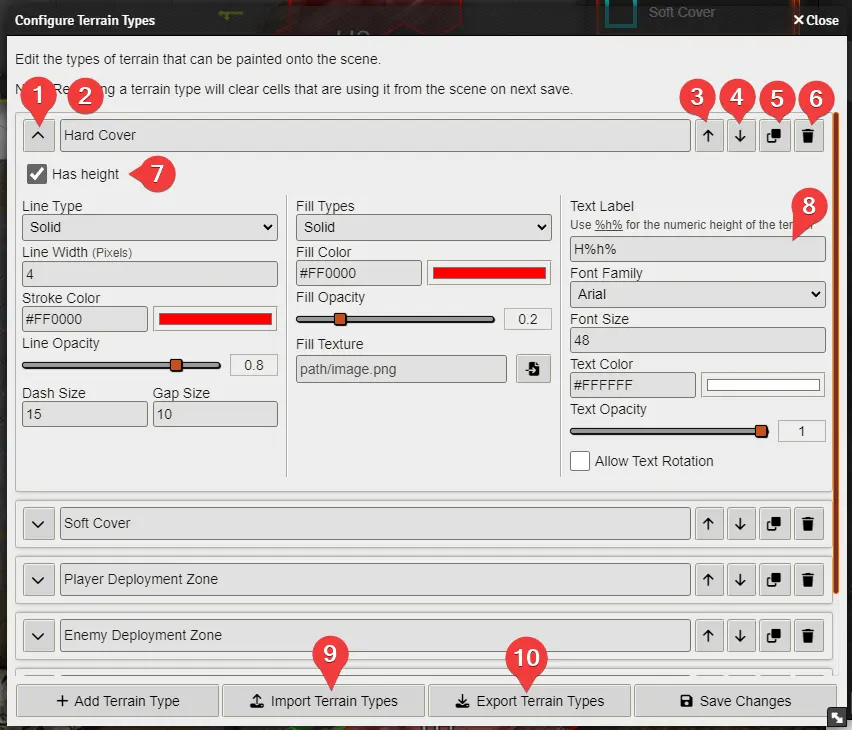
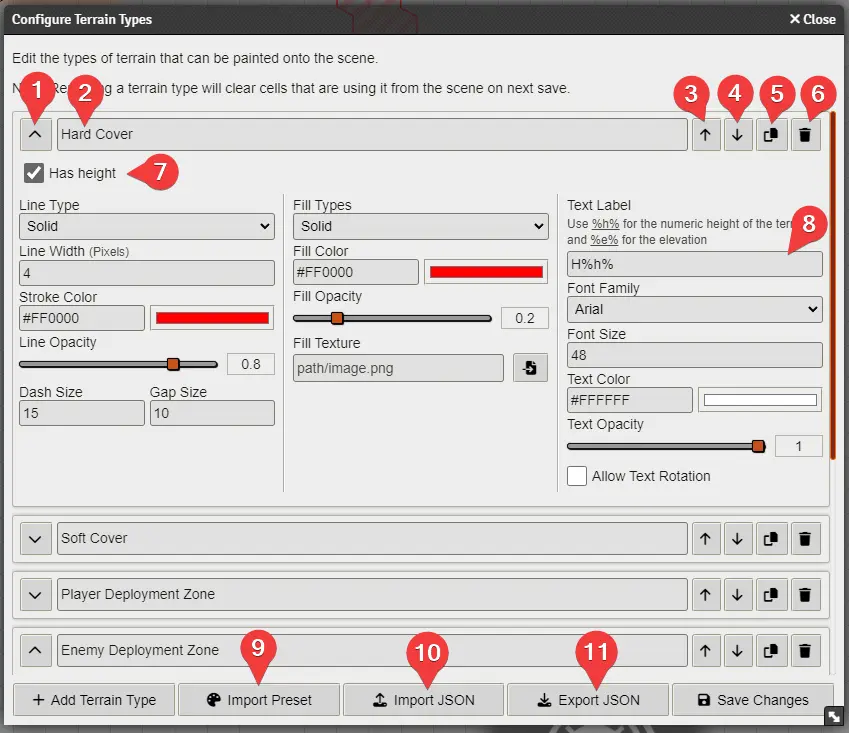
Add ability to import preset terrain type config files.

Changed region(s): [[0.0, 0.0, 1.0, 1.0]]

diff --git a/styles/main.css b/styles/main.css
@@ -173,6 +173,55 @@
 	resize: none;
 }
 
+#tht_terrainTypesPresets .preset-list {
+	list-style: none;
+	margin: 0 40px 8px;
+	padding: 0;
+	overflow-y: auto;
+	max-height: 500px;
+}
+
+#tht_terrainTypesPresets .preset-list li {
+	display: flex;
+	flex-direction: column;
+	position: relative;
+	padding: 6px;
+	margin: 8px;
+	min-height: 150px;
+
+	border: 1px solid var(--color-border-light-primary);
+	border-radius: 3px;
+	box-shadow: 0px 0px 4px -1px rgba(0, 0, 0, 0.5),
+		0px 0px 60px 0px #FFFFFF inset;
+
+	background-size: cover;
+	background-position: center;
+	background-repeat: no-repeat;
+}
+
+#tht_terrainTypesPresets .preset-header {
+	margin: -6px;
+    padding: 6px;
+	background: rgba(255, 255, 255, 0.7);
+}
+
+#tht_terrainTypesPresets .preset-name {
+	font-size: 1.25rem;
+}
+
+#tht_terrainTypesPresets .preset-author {
+	opacity: 0.8;
+}
+
+#tht_terrainTypesPresets .preset-import-buttons {
+	text-align: right;
+}
+
+#tht_terrainTypesPresets .preset-import-buttons button {
+	display: inline-block;
+	width: auto;
+}
+
 
 /* -------------------------- */
 /* Line of Sight Ruler Config */

diff --git a/readme.md b/readme.md
@@ -14,7 +14,9 @@ Designed for LANCER, _Terrain Height Tools_ takes inspiration from the way paint
 
 ## Installation
 
-Paste this URL into the 'Manifest URL' field of the 'Install Module' dialog in the Foundry configuration: `https://github.com/Wibble199/FoundryVTT-Terrain-Height-Tools/releases/latest/download/module.json`, then enable the module in your world.
+Simply search for 'Terrain Height Tools' in the Foundry 'Install Module' screen and install it from there.
+
+Alternatively, paste this URL into the 'Manifest URL' field of the 'Install Module' dialog in the Foundry configuration: `https://github.com/Wibble199/FoundryVTT-Terrain-Height-Tools/releases/latest/download/module.json`, then enable the module in your world.
 
 > [!IMPORTANT]
 > Note that the latest version this module currently only supports Foundry v11.x.
@@ -69,8 +71,9 @@ There are some other useful buttons:
 - Buttons 3 and 4 on the above image are to move the terrain types up and down. This only affects their order in the palette, but you can shift your most-used terrain types to the top if you wish.
 - Button 5 allows you to duplicate an existing terrain type, copying all the configuration.
 - Button 6 is to delete the terrain type.
-- '_Import Terrain Types_' (button 9) allows you to paste JSON in to import some terrain types that have been exported previously.
-- '_Export Terrain Types_' (button 10) will give you a JSON that you can share with other people, or copy to other worlds and will copy all your terrain types.
+- '_Import Preset_' (button 9) allows you to easily import a config preset that has been submitted by members of the community. If you would like to submit a preset, please create an issue or pull request on GitHub.
+- '_Import JSON_' (button 10) allows you to paste JSON in to import some terrain types that have been exported previously.
+- '_Export JSON_' (button 11) will give you a JSON that you can share with other people, or copy to other worlds and will copy all your terrain types.
 
 ### Module Settings
 
